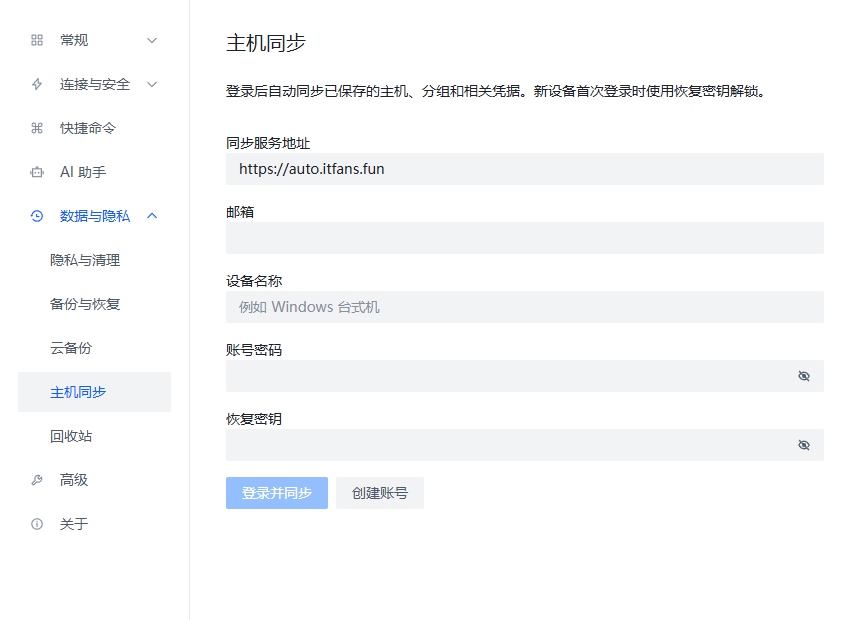
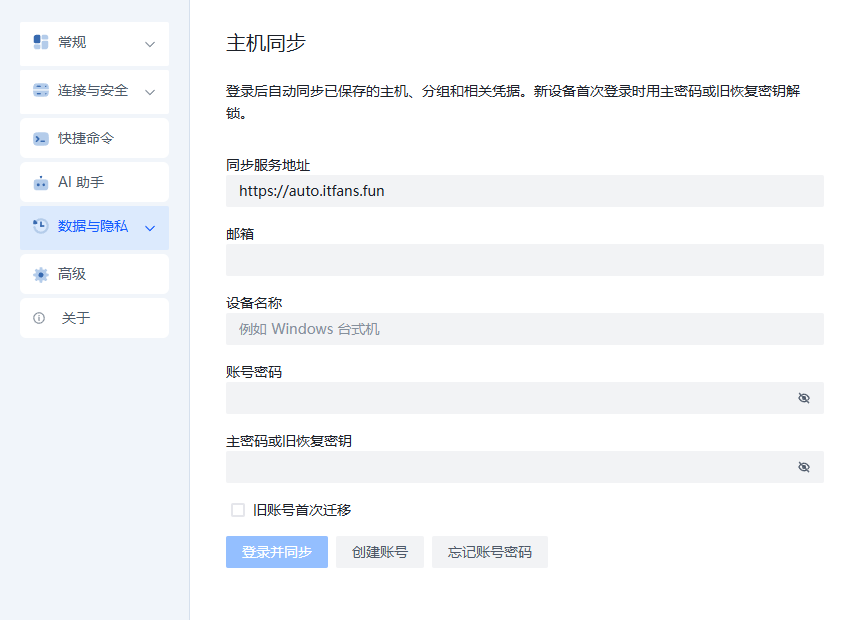
先验证 SSH 密钥再切换并精简监控图表

diff --git a/src/components/SshKeySettings.tsx b/src/components/SshKeySettings.tsx
@@ -25,6 +25,7 @@ import { isTauri } from "@tauri-apps/api/core";
 import { open } from "@tauri-apps/plugin-dialog";
 import { writeText } from "@tauri-apps/plugin-clipboard-manager";
 import { APP_DISPLAY_NAME } from "../application-brand";
+import { confirmHostFingerprint } from "../app-window-actions";
 import { diagnosticInvoke as invoke } from "../diagnostics";
 import {
   loadConfiguration,
@@ -45,10 +46,29 @@ import type {
 } from "../models";
 import { getSshKeySource } from "../ssh-keys";
 import { sshKeyInstallCommand } from "../ssh-key-install";
+import { jumpHostRequest } from "../terminal-utils";
+import { resolveWorkspaceConnection } from "../terminal-workspaces";
 import {
   emitProtocolEventTo,
   listenProtocolEvent,
+  type SshConnectResult,
 } from "../tauri-protocol";
+
+function keyChange(
+  configuration: Awaited<ReturnType<typeof loadConfiguration>>,
+  hostId: string,
+  keyId: string,
+) {
+  const host = configuration.hosts.find(({ id }) => id === hostId);
+  if (!host) throw new Error("所选主机已被删除");
+  const replacement = { ...host, authMethod: "privateKey" as const, sshKeyId: keyId, privateKeyPath: undefined };
+  const [candidate, proxy, jump] = resolveWorkspaceConnection(replacement, configuration);
+  const { address, port, username, authMethod, privateKeyPath, connectTimeoutSeconds, keepAliveIntervalSeconds } = candidate;
+  const request = { hostId: keyId, address, port, username, authMethod, privateKeyPath, connectTimeoutSeconds,
+    keepAliveIntervalSeconds, expectedFingerprint: host.hostFingerprint, proxy, jumpHost: jumpHostRequest(jump) };
+  const original = [host.authMethod, host.sshKeyId, host.privateKeyPath];
+  return { host, replacement, request, snapshot: JSON.stringify([request, original]) };
+}
 
 function createSshKeyId() {
   return `ssh-key-${Date.now()}-${Math.random().toString(36).slice(2, 8)}`;
@@ -353,28 +373,43 @@ function SshKeySettings() {
   const applyToHost = async () => {
     if (!installKey || !installHostId || acting) return;
     const keyId = installKey.id;
+    const hostId = installHostId;
     setActing(true);
     try {
+      const change = keyChange(await loadConfiguration(), hostId, keyId);
+      const verify = (expectedFingerprint = change.request.expectedFingerprint) =>
+        invoke<SshConnectResult>("ssh_verify_private_key", { request: { ...change.request, expectedFingerprint } });
+      let result = await verify();
+      if (result.status === "hostKeyVerificationRequired") {
+        if (!await confirmHostFingerprint(change.host, result)) return;
+        result = await verify(result.fingerprint);
+        if (result.status !== "connected") throw new Error("验证期间主机指纹已变化，请重试");
+      }
       await updateConfiguration((current) => {
-        if (!current.sshKeys.some((key) => key.id === keyId)) {
-          throw new Error("密钥已被删除");
-        }
-        if (!current.hosts.some((host) => host.id === installHostId)) {
-          throw new Error("所选主机已被删除");
+        const latest = keyChange(current, hostId, keyId);
+        if (latest.snapshot !== change.snapshot) {
+          throw new Error("验证期间连接配置已变化，请重试");
         }
         return {
           ...current,
           hosts: current.hosts.map((host) =>
-            host.id === installHostId
-              ? { ...host, authMethod: "privateKey", sshKeyId: keyId, privateKeyPath: undefined }
+            host.id === hostId
+              ? { ...latest.replacement, hostFingerprint: result.fingerprint }
               : host,
           ),
         };
       });
       setInstallKey(null);
-      Message.success("主机已切换为密钥登录，请新开会话测试");
       await notifyMainWindow();
       await refresh();
+      if (change.host.authMethod !== "password" && change.host.sshKeyId !== keyId) {
+        Modal.info({
+          title: "新密钥已验证并启用",
+          content: "确认没有其他设备或主机需要旧公钥后，可以从服务器的 authorized_keys 手动移除旧公钥。",
+        });
+      } else {
+        Message.success("新密钥已验证，主机已切换为密钥登录");
+      }
     } catch (error) {
       Message.error(String(error));
     } finally {
@@ -613,7 +648,7 @@ function SshKeySettings() {
         >
           <Space direction="vertical" size="medium" style={{ width: "100%" }}>
             <Typography.Text>
-              用要登录的账号打开服务器终端，粘贴并执行安装命令。完成后用新会话测试密钥登录。
+              用要登录的账号打开服务器终端，粘贴并执行安装命令。栈渡验证新密钥后才会切换主机配置。
             </Typography.Text>
             <Input.TextArea aria-label="OpenSSH 公钥" autoSize readOnly value={installKey.publicKey} />
             <Space wrap>
@@ -645,7 +680,7 @@ function SshKeySettings() {
                   loading={acting}
                   onClick={() => void applyToHost()}
                 >
-                  已安装，用于此主机
+                  已安装，验证并启用
                 </Button>
               </>
             )}

diff --git a/src/components/ServerMonitorCharts.tsx b/src/components/ServerMonitorCharts.tsx
@@ -1,6 +1,16 @@
 import { useMemo } from "react";
-import type { ITooltipLineActual } from "@visactor/vchart";
-import { AreaChart, BarChart } from "@visactor/react-vchart";
+import { VChartSimple, type AreaChartProps, type BarChartProps } from "@visactor/react-vchart";
+import {
+  VChart,
+  registerAreaChart,
+  registerBarChart,
+  registerCartesianBandAxis,
+  registerCartesianLinearAxis,
+  registerDiscreteLegend,
+  registerDomTooltipHandler,
+  registerTooltip,
+  type ITooltipLineActual,
+} from "@visactor/vchart";
 import { useResolvedAppearance } from "../hooks/useResolvedAppearance";
 import type { ServerMonitorHistoryPoint } from "../models";
 import {
@@ -8,6 +18,22 @@ import {
   formatMonitorRate,
   normalizeMonitorPercent,
 } from "../monitor-utils";
+
+VChart.useRegisters([
+  registerAreaChart,
+  registerBarChart,
+  registerCartesianBandAxis,
+  registerCartesianLinearAxis,
+  registerDiscreteLegend,
+  registerDomTooltipHandler,
+  registerTooltip,
+]);
+
+type MonitorChartProps = ({ type: "area" } & AreaChartProps) | ({ type: "bar" } & BarChartProps);
+
+function MonitorChart({ className, height, ...spec }: MonitorChartProps) {
+  return <VChartSimple vchartConstructor={VChart} className={className} style={{ height }} spec={spec} />;
+}
 
 interface UtilizationDatum {
   metric: string;
@@ -50,7 +76,8 @@ export function UtilizationChart({ utilizationData }: { utilizationData: Utiliza
   const appearance = useResolvedAppearance();
   const chartTextColor = appearance === "dark" ? "#c9cdd4" : "#4e5969";
   return (
-    <BarChart
+    <MonitorChart
+      type="bar"
       animation={false}
       axes={[
         {
@@ -114,7 +141,8 @@ export function ResourceTrendChart({ monitorHistory }: { monitorHistory: ServerM
     [monitorHistory],
   );
   return (
-    <AreaChart
+    <MonitorChart
+      type="area"
       animation={false}
       area={{ style: { fillOpacity: 0.12 } }}
       axes={[
@@ -179,7 +207,8 @@ export function NetworkTrendChart({ monitorHistory }: { monitorHistory: ServerMo
     [monitorHistory],
   );
   return (
-    <AreaChart
+    <MonitorChart
+      type="area"
       animation={false}
       area={{ style: { fillOpacity: 0.12 } }}
       axes={[

diff --git a/src/components/ServerMonitorPanel.test.tsx b/src/components/ServerMonitorPanel.test.tsx
@@ -4,9 +4,10 @@ import { clearMocks, mockIPC, mockWindows } from "@tauri-apps/api/mocks";
 import { act, fireEvent, render, screen, waitFor } from "@testing-library/react";
 import type { HostRecord, TerminalSession } from "../models";
 
-mock.module("@visactor/react-vchart", () => ({
-  AreaChart: () => <div data-testid="area-chart" />,
-  BarChart: () => <div data-testid="bar-chart" />,
+mock.module("./ServerMonitorCharts", () => ({
+  UtilizationChart: () => <div data-testid="bar-chart" />,
+  ResourceTrendChart: () => <div data-testid="area-chart" />,
+  NetworkTrendChart: () => <div data-testid="network-chart" />,
 }));
 
 import ServerMonitorPanel from "./ServerMonitorPanel";

diff --git a/src/tauri-protocol.test.ts b/src/tauri-protocol.test.ts
@@ -36,7 +36,7 @@ describe("Tauri shared protocol", () => {
     expect(contract.commands.host_sync_accept_login).toBe(true);
     expect(contract.events["host-sync:request"]).toBe(true);
     expect(contract.commands.sftp_list_preview).toBe(true);
-    expect(Object.keys(contract.commands)).toHaveLength(122);
+    expect(Object.keys(contract.commands)).toHaveLength(123);
     expect(Object.keys(contract.events)).toHaveLength(12);
   });
 

diff --git a/src-tauri/src/ssh/commands.rs b/src-tauri/src/ssh/commands.rs
@@ -32,6 +32,40 @@ pub(crate) async fn ssh_connect(
 }
 
 #[tauri::command]
+pub(crate) async fn ssh_verify_private_key(
+    request: SshAuthConfig,
+) -> Result<SshConnectResult, String> {
+    if !matches!(request.auth_method, SshAuthMethod::PrivateKey) {
+        return Err("验证新密钥时必须使用私钥认证".into());
+    }
+    tauri::async_runtime::spawn_blocking(move || {
+        let (session, fingerprint) =
+            connect_handshaken_session(&request, &AtomicBool::new(false))?;
+        let (status, expected_fingerprint) =
+            match verify_fingerprint(request.expected_fingerprint.as_deref(), &fingerprint) {
+                FingerprintVerification::Trusted => {
+                    authenticate_session(&session, &request)?;
+                    (SshConnectStatus::Connected, None)
+                }
+                FingerprintVerification::Unknown => {
+                    (SshConnectStatus::HostKeyVerificationRequired, None)
+                }
+                FingerprintVerification::Changed(expected) => {
+                    (SshConnectStatus::HostKeyVerificationRequired, Some(expected))
+                }
+            };
+        Ok(SshConnectResult {
+            status,
+            fingerprint,
+            expected_fingerprint,
+            port_forwards: Vec::new(),
+        })
+    })
+    .await
+    .map_err(|error| format!("SSH 密钥验证任务异常结束：{error}"))?
+}
+
+#[tauri::command]
 pub(crate) fn ssh_write(
     manager: State<'_, SshSessionManager>,
     session_id: String,

diff --git a/src-tauri/src/lib.rs b/src-tauri/src/lib.rs
@@ -167,6 +167,7 @@ pub fn run() {
             terminal_logs::terminal_log_stop,
             terminal_logs::terminal_log_open_directory,
             ssh::ssh_connect,
+            ssh::ssh_verify_private_key,
             ssh::ssh_write,
             ssh::ssh_resize,
             ssh::ssh_monitor_snapshot,

diff --git a/src-tauri/src/ssh/mod.rs b/src-tauri/src/ssh/mod.rs
@@ -66,7 +66,8 @@ pub(crate) enum SshAuthMethod {
     Agent,
 }
 
-#[derive(Clone)]
+#[derive(Clone, Deserialize)]
+#[serde(rename_all = "camelCase")]
 pub(crate) struct SshAuthConfig {
     pub(crate) host_id: String,
     pub(crate) address: String,

diff --git a/src-tauri/src/protocol.rs b/src-tauri/src/protocol.rs
@@ -1,6 +1,6 @@
 use serde::Serialize;
 
-pub(crate) const PROTOCOL_VERSION: u16 = 43;
+pub(crate) const PROTOCOL_VERSION: u16 = 44;
 
 pub(crate) const SSH_OUTPUT_EVENT: &str = "ssh-output";
 pub(crate) const SSH_STATUS_EVENT: &str = "ssh-status";

diff --git a/README.md b/README.md
@@ -59,11 +59,11 @@ sudo apt --fix-broken install
 
 ## 界面预览
 
-截图来自栈渡 Windows 客户端。主机页和 SSH 工作区使用当前开发版，其余功能图来自 v0.6.2 正式版。主机、文件、同步账号和诊断数据均为本地演示数据，AI 回复来自本地演示接口。
+截图来自栈渡 Windows 客户端。主机页、SSH 工作区、同步设置表单及密钥生成使用当前开发版，其余功能图来自 v0.6.2 正式版。主机、文件、同步账号和诊断数据均为本地演示数据，AI 回复来自本地演示接口。
 
 ### 主机同步
 
-登录后可查看最近同步时间和已登录设备，并管理恢复密钥。[同步操作和服务部署](#主机账号同步)
+登录后可查看最近同步时间、管理已登录设备并更换主密码。[同步操作和服务部署](#主机账号同步)
 
 ![栈渡主机同步登录后的最近同步时间和已登录设备](docs/screenshots/zhandu-sync-device.png)
 
@@ -127,7 +127,7 @@ sudo apt --fix-broken install
 | 终端     | 多主机会话与分屏、内容搜索、快捷命令和端口转发。默认保留 2,000 行回滚记录，可在设置中调整。 |
 | AI 助手  | OpenAI 兼容服务、上下文提及、流式对话、服务器诊断、终端命令与远程文件操作、分级审批和执行结果验证       |
 | SFTP   | 上传下载、暂停继续、取消重试、批量拖拽、复制移动、排序、大目录滚动优化、权限及用户/用户组管理 |
-| 主机账号同步 | 跨设备自动同步已保存的主机、分组及关联 SSH 凭据，使用恢复密钥在设备端解密 |
+| 主机账号同步 | 跨设备自动同步已保存的主机、分组及关联 SSH 凭据，使用主密码或旧恢复密钥在设备端解密 |
 | 文件编辑   | 内置文本编辑、调用本地默认或指定编辑器、文件变化自动同步远端、冲突处理                     |
 | 归档操作   | 远程压缩与解压、目录及多选项目打包下载，支持 `.tar.gz`、`.tar` 和 `.zip`        |
 | 服务器监控  | 默认每 15 秒刷新，记住侧栏的收起状态，收起或窗口最小化、隐藏时暂停采样。图表可按需展开。 |
@@ -141,7 +141,14 @@ SFTP 文件名筛选可从文件管理工具栏的搜索按钮打开，只筛选
 
 1. 打开「设置 → 连接与安全 → 密钥」，点击「生成密钥」。栈渡生成 Ed25519 密钥，并在本机托管私钥。
 2. 点击「复制安装命令」。用你计划登录的账号打开服务器终端，粘贴并执行命令。命令会把公钥加入该账号的 `~/.ssh/authorized_keys`，并保留已有条目。
-3. 在安装窗口选择对应的已保存主机，点击「已安装，用于此主机」，再新开会话验证。服务器启用公钥认证后，连接无需输入服务器密码。
+3. 在安装窗口选择对应的已保存主机，点击「已安装，验证并启用」。按提示核对服务器指纹。栈渡验证新密钥能登录后才更新主机配置。更换已有密钥时，确认没有其他设备或主机依赖旧公钥后，可以在服务器上手动撤销它。
+
+<details>
+<summary>查看生成 SSH 密钥界面</summary>
+
+![栈渡设置中生成 Ed25519 密钥的界面](docs/screenshots/zhandu-ssh-key-generate.png)
+
+</details>
 
 启用主机同步后，关联到已保存主机的私钥会随该主机端到端加密同步。另一台设备首次解锁同步数据后即可使用这把密钥。单独生成的密钥保留在本机，关联主机后才会参与同步。
 
@@ -150,21 +157,25 @@ SFTP 文件名筛选可从文件管理工具栏的搜索按钮打开，只筛选
 在「设置 → 主机同步」中创建账号或登录，默认使用 `https://auto.itfans.fun`，也可以填写自建同步服务地址。
 
 <details>
-<summary>查看主机同步登录页</summary>
+<summary>查看主密码注册、新设备登录和邮箱找回界面</summary>
 
-![栈渡主机同步登录页，包含服务地址、邮箱和恢复密钥输入框](docs/screenshots/zhandu-host-sync.png)
+![栈渡主机同步注册页，使用自设主密码](docs/screenshots/zhandu-sync-registration.png)
+
+![栈渡新设备登录页，使用主密码或旧恢复密钥解锁](docs/screenshots/zhandu-host-sync.png)
+
+![栈渡通过邮箱验证码重设账号密码的界面](docs/screenshots/zhandu-sync-recovery.png)
 
 </details>
 
-1. 在第一台设备创建账号，妥善保存生成的恢复密钥。
-2. 在另一台设备登录同一账号并输入恢复密钥。应用自动同步已保存的主机、分组和相关 SSH 凭据。
+1. 在第一台设备点击「创建账号」，设置账号密码，以及单独的主密码。主密码至少 16 个字符，可以由栈渡生成，建议存入密码管理器。
+2. 在另一台设备填入同一个服务地址、邮箱、账号密码和主密码，点击「登录并同步」。应用自动同步已保存的主机、分组和相关 SSH 凭据。已有设备可沿用系统凭据库保存的解锁密钥。
 3. 首次连接每台 SSH 主机时，按提示核对服务器指纹。
 
-应用在设备端加密同步数据。支持主密码的服务允许在注册时自行设定或生成主密码，新设备首次输入主密码后自动同步。旧账号仍可用原恢复密钥登录。自建服务见[同步服务部署指南](sync-server/README.md)。
+应用在设备端加密同步数据。采用旧恢复密钥的账号仍可用原密钥解锁，可在已同步的设备上点击「设置或更换主密码」迁移。自建服务见[同步服务部署指南](sync-server/README.md)。
 
 同步服务标识为 `zhandu`，验证邮件使用栈渡品牌。现有 systemd 部署可按升级步骤切换服务单元，沿用原配置与数据目录。[自建服务升级](sync-server/README.md#升级已有服务)
 
-启用 OPAQUE 的同步服务可以在客户端完成账号密码认证。旧账号从设置中的「迁移旧账号认证」升级。启用发信时，可在登录页用邮箱重设账号密码，主机数据仍由主密码或设备保存的主密钥解锁。[OPAQUE 登录和邮箱找回](sync-server/README.md#opaque-登录和邮箱找回)
+启用 OPAQUE 的同步服务可以在客户端完成账号密码认证。旧账号从设置中的「迁移旧账号认证」升级。忘记账号密码时，在登录页点击「忘记账号密码」，输入邮箱验证码和新账号密码。重设后用新账号密码重新登录，仍用原主密码或本机已保存的密钥解锁主机数据。[OPAQUE 登录和邮箱找回](sync-server/README.md#opaque-登录和邮箱找回)
 
 ### 同步设置
 

diff --git a/CHANGELOG.md b/CHANGELOG.md
@@ -7,6 +7,7 @@
 ### 新增
 
 - 支持在客户端生成托管 Ed25519 密钥、复制公钥安装命令，并切换已保存主机到密钥登录。
+- 切换或更换主机密钥前先验证新密钥可以登录，更换成功后提示手动撤销旧公钥。
 ### 修复
 
 ### 优化
@@ -15,6 +16,7 @@
 - 拉开主机操作按钮的图标与文字间距，保持小按钮和纯图标按钮的紧凑布局。
 - 服务器监控默认每 15 秒刷新并记住侧栏收起状态。收起监控或窗口最小化、隐藏时暂停采样，图表可按需展开。
 - 终端默认保留 2,000 行回滚记录，仅在使用 AI 侧栏时采集当前终端的最近输出。
+- 监控图表只加载资源占用和流量趋势所需的图表组件。
 
 ### 工程
 
